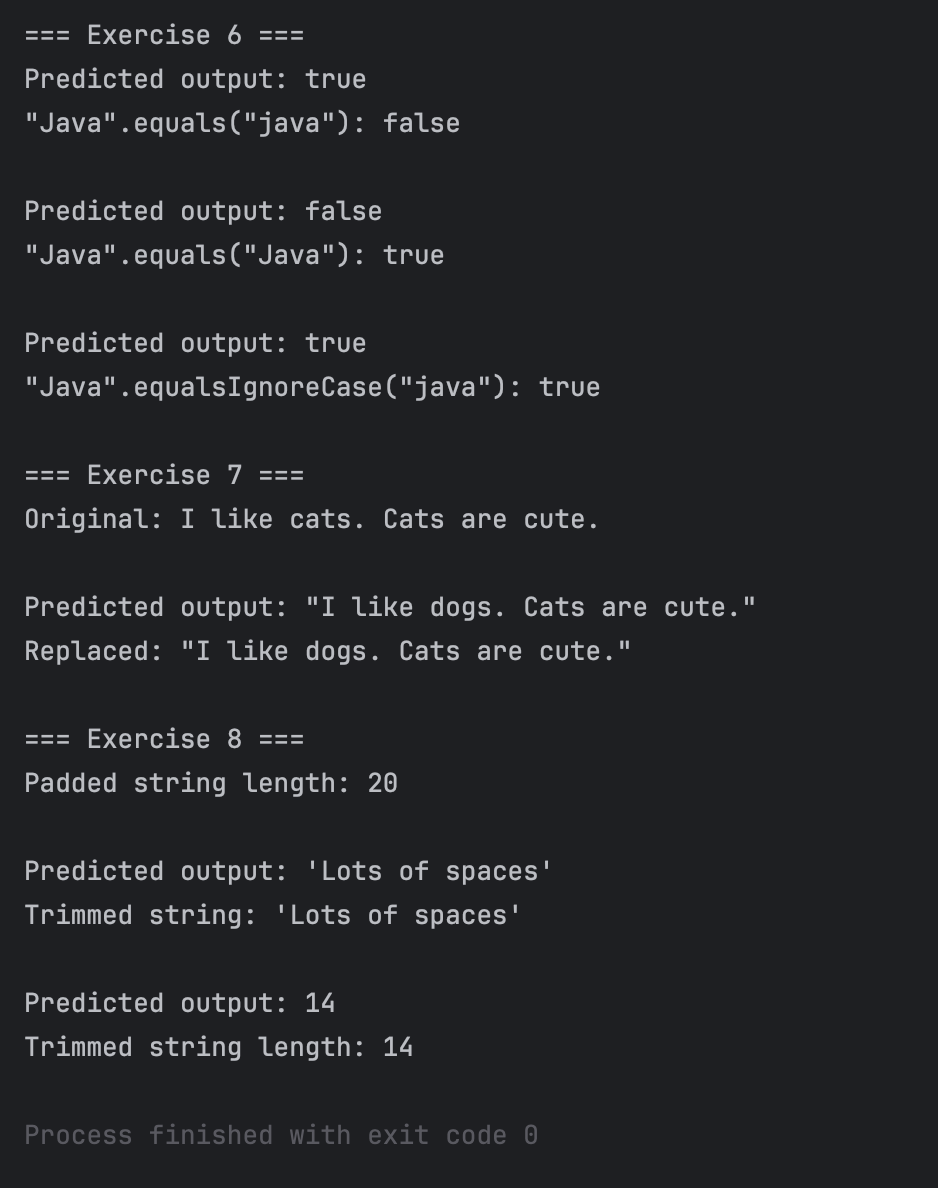
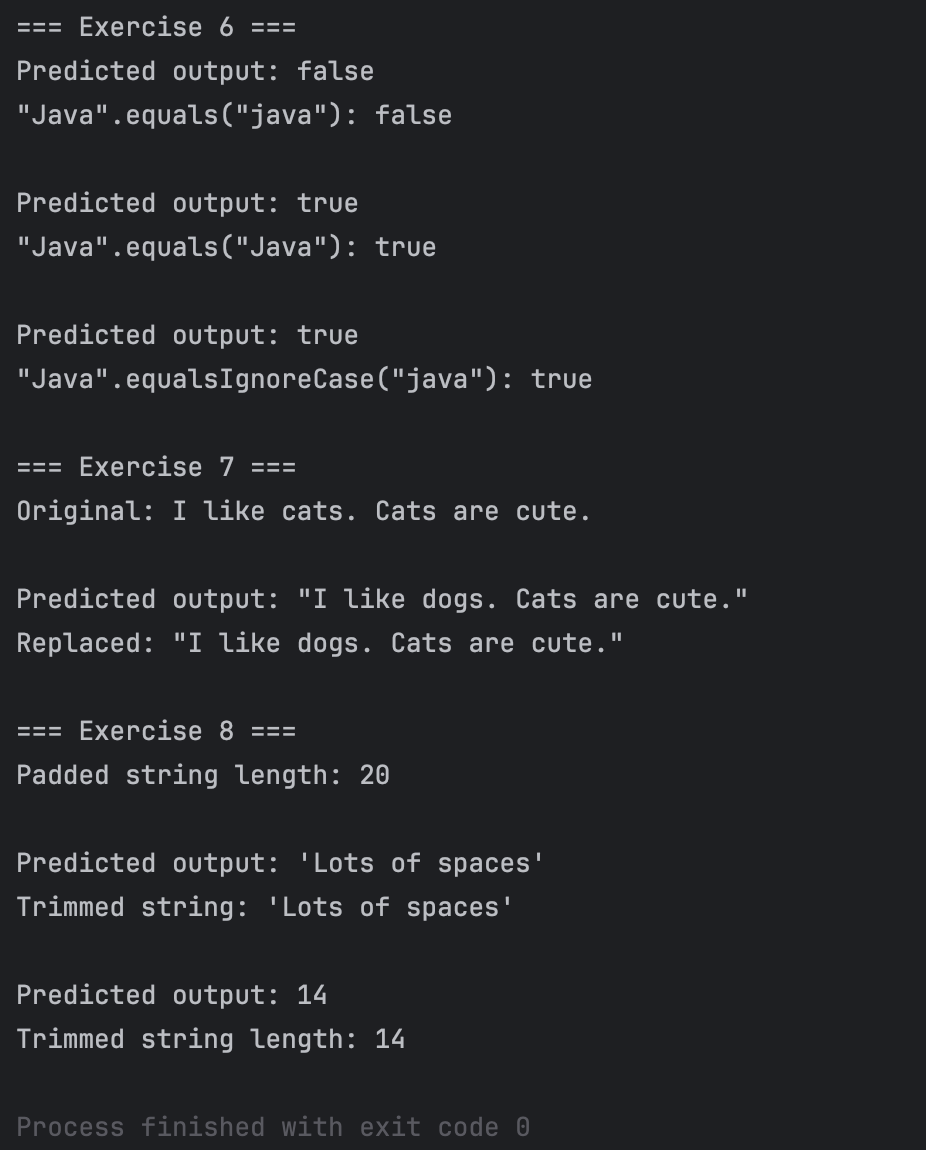
Final Submission, Exploring Java String Methods

diff --git a/src/main/java/org/example/StringLab.java b/src/main/java/org/example/StringLab.java
@@ -85,10 +85,10 @@ public class StringLab {
         boolean isEqual2 = str1.equals(str3);
         boolean isEqualIgnoreCase = str1.equalsIgnoreCase(str2);
 
-        System.out.println("Predicted output: true");
+        System.out.println("Predicted output: false");
         System.out.println("\"Java\".equals(\"java\"): " + isEqual1);
 
-        System.out.println("\nPredicted output: false");
+        System.out.println("\nPredicted output: true");
         System.out.println("\"Java\".equals(\"Java\"): " + isEqual2);
 
         System.out.println("\nPredicted output: true");
